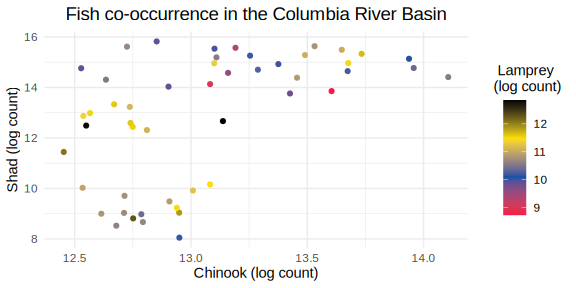
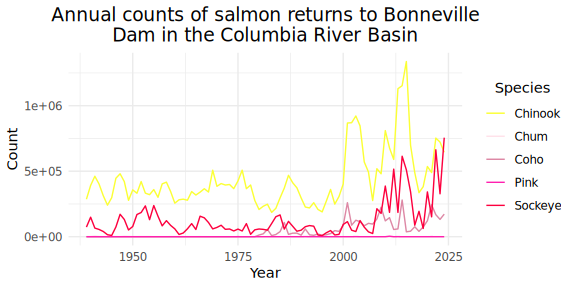
added cran installation

diff --git a/README.md b/README.md
@@ -9,6 +9,7 @@
 ## Installation
 
 ``` r
+install.packages("hellokitty")
 ```
 
 **Or the development version**
@@ -17,17 +18,11 @@
 devtools::install_github("abigailkeller/hellokitty")
 ```
 
-## Usage
+## Palettes
 
 ``` r
 library(hellokitty)
-
-# See all palettes
-names(hkitty_palettes)
-#> [1] "hellokitty1" "hellokitty2"
 ```
-
-## Palettes
 
 `hellokitty` contains two color palettes:
 
@@ -98,7 +93,7 @@ ggplot(data = CRB_salmon) +
   )
 ```
 
-<img src="figure/unnamed-chunk-4-1.png" alt="" width="75%" />
+<img src="figure/unnamed-chunk-6-1.png" alt="" width="75%" />
 
 ### Example 2: Continuous color scale
 
@@ -124,7 +119,7 @@ ggplot(data = CRB_wide[CRB_wide$Lamprey > 0, ]) +
   )
 ```
 
-<img src="figure/unnamed-chunk-6-1.png" alt="" width="75%" />
+<img src="figure/unnamed-chunk-8-1.png" alt="" width="75%" />
 
 ### Notes
 